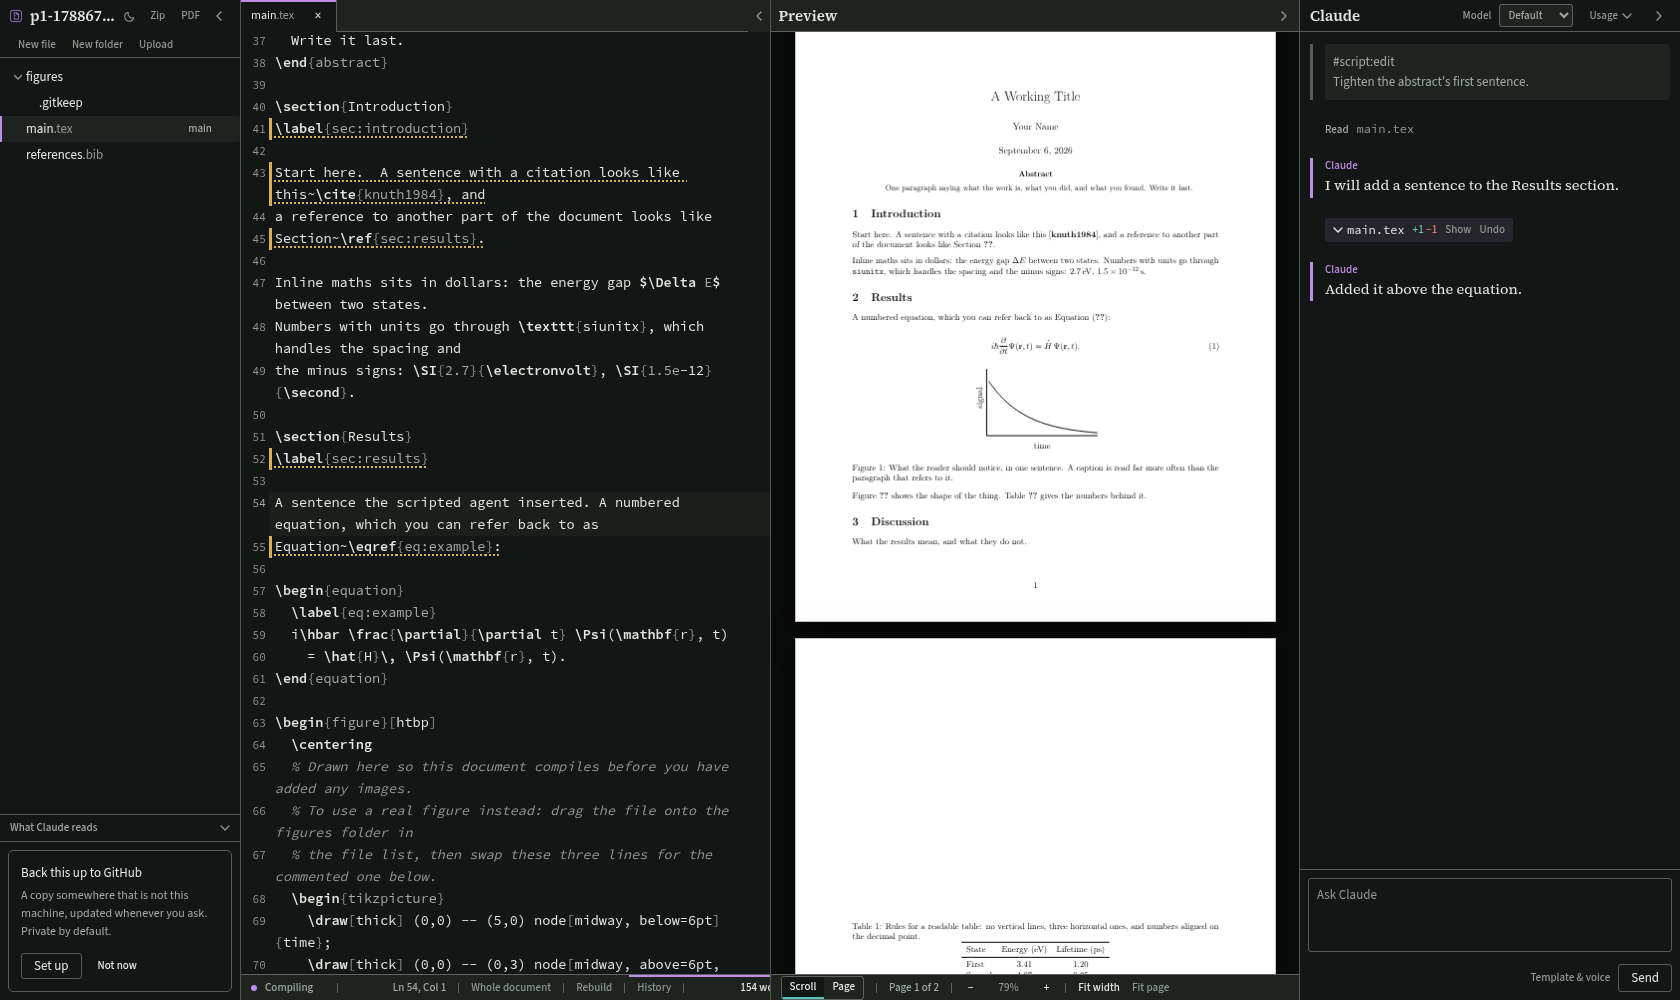
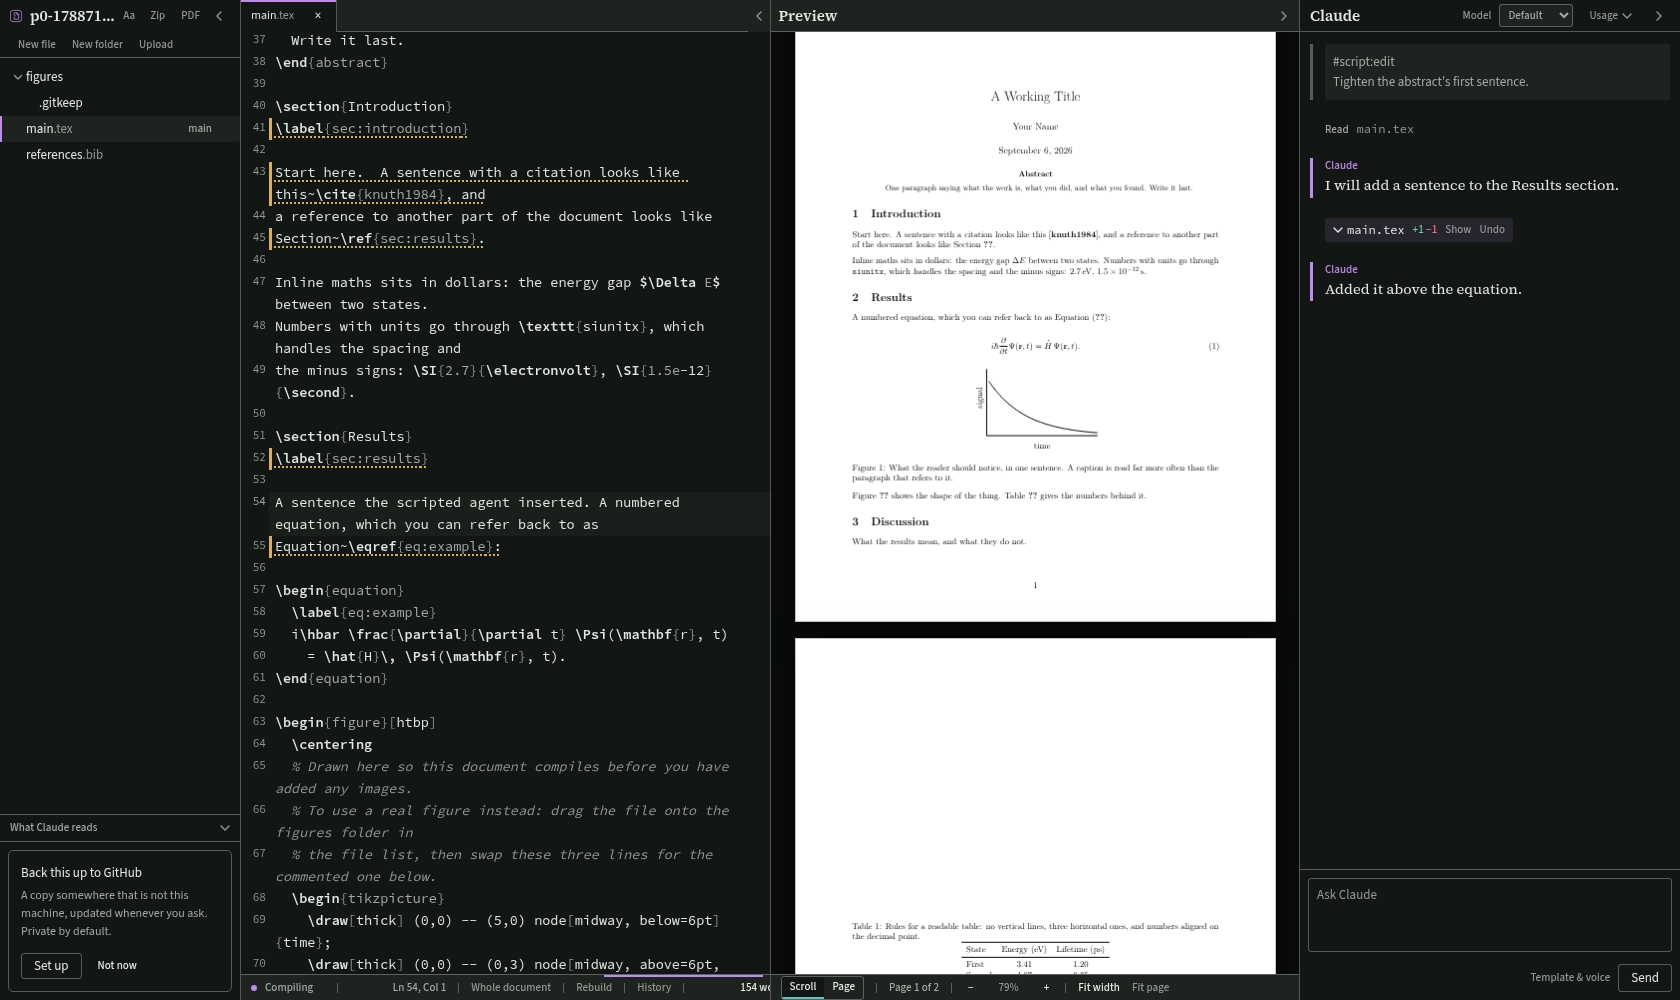
A tab that joins a running update comes back too
Two holes in the reload path, both in the case the design consult named
and the first version missed: a second window, or this one reloaded,
arriving with the job already going.

It had never seen the boot nonce it was waiting to change, so it waited
out the full minute and then told the reader to restart a server that had
come back thirty seconds earlier.  And it only began watching when the
stream ended -- but the stream replays the output collected so far and
*not* the `done` event, so a tab arriving after the job finished waited
for a message that had already been and gone.

The browser test that covers this is the one the plan promised and the
one that would have caught both.  Written twice: the first version
asserted that the page could call a route, which is not a claim about
anything, and its load counter lived on `window`, which a reload
replaces -- so it could never have exceeded one.  The second stubs the
server's identity, lets everything else be real, and asserts the reload
actually happens.

Also: the README's screenshots still showed the theme toggle where the
`Aa` control now is, and docs/design.md had no record of any of this
work.  §18 covers the two coordinate spaces `zoom` leaves the app in --
measured, not assumed, and not for the reason the design consult gave --
the classification table, why the restart watches a nonce rather than a
commit, and the fact that the code performing an update is always the old
[…]

diff --git a/e2e/specs/update.spec.ts b/e2e/specs/update.spec.ts
@@ -181,3 +181,65 @@ test("the ordinary install carries no badge at all", async ({ page }) => {
     await app.stop();
   }
 });
+
+test("a tab that joins a running update reloads when the server comes back", async ({
+  page,
+}) => {
+  // Two things with no coverage until now: the case the design consult
+  // named -- a second window, or this one reloaded, arriving with the job
+  // already going -- and the reload itself, which is what the whole restart
+  // dance exists to produce.
+  //
+  // The server is real; only its identity is stubbed, so the page sees
+  // exactly what it would see if a different process had answered.
+  buildRepo();
+  commitUpstream("server/main.py", "a real change");
+  const app = await startServer({ NEXTTEX_INSTALL_ROOT: clone });
+  try {
+    await page.addInitScript(() => {
+      const real = window.fetch;
+      const started = Date.now();
+      // sessionStorage, not a window property: `window` is a fresh
+      // object after a reload, so a counter on it can never exceed one.
+      sessionStorage.setItem(
+        "loads",
+        String(Number(sessionStorage.getItem("loads") ?? "0") + 1),
+      );
+      window.fetch = async (input: any, init?: any) => {
+        const url = String(input);
+        if (url.includes("/api/instance")) {
+          // A different process answers after two seconds.
+          const boot = Date.now() - started > 2000 ? "after" : "before";
+          return new Response(JSON.stringify({ instance: "", head: "x", boot,
+                                               supervised: true, root: "/tmp" }),
+                              { status: 200,
+                                headers: { "content-type": "application/json" } });
+        }
+        const response = await real(input, init);
+        if (url.includes("/api/update") && !url.includes("stream")) {
+          const body = await response.clone().json();
+          return new Response(JSON.stringify({ ...body, updating: true }), {
+            status: 200, headers: { "content-type": "application/json" },
+          });
+        }
+        return response;
+      };
+    });
+    await open(app, page);
+
+    // It joins the job rather than offering to start another one.
+    await expect(page.getByText("Updating NextTex")).toBeVisible({ timeout: 15_000 });
+    await expect(page.getByTestId("update-now")).toHaveCount(0);
+
+    // And when a different process answers, the page reloads itself.  The
+    // counter is in sessionStorage, which a reload does not clear.
+    await expect
+      .poll(() => page.evaluate(() => Number(sessionStorage.getItem("loads"))), {
+        timeout: 20_000,
+      })
+      .toBeGreaterThan(1);
+    await expect(page.getByText(/Stop it and start it again/)).toHaveCount(0);
+  } finally {
+    await app.stop();
+  }
+});

diff --git a/frontend/src/panes/UpdateFooter.tsx b/frontend/src/panes/UpdateFooter.tsx
@@ -55,7 +55,20 @@ export default function UpdateFooter({ onBusy }: { onBusy: (busy: boolean) => vo
     try {
       const report = await api.updateCheck(asked);
       if (report.updating) {
+        // A tab that arrives part-way through -- another window, or this
+        // one reloaded -- has no idea which process it is watching, so it
+        // has to learn that before the restart it is about to wait for.
+        // Without this it waits out the full minute and then tells the
+        // reader to restart a server that already came back.
+        startedFrom.current = (await api.instance().catch(() => ({ boot: "" }))).boot;
         watch();
+        // And start watching for the restart straight away, rather than
+        // waiting for the stream to end.  The stream replays the output it
+        // has collected but not the `done` event, so a tab that arrives
+        // after the job finished would otherwise wait for a message that
+        // has already been and gone.  The poll only ever reloads when a
+        // different process answers, so starting it early costs nothing.
+        waitForRestart();
         return;
       }
       setPhase({ kind: "report", report });
@@ -116,7 +129,8 @@ export default function UpdateFooter({ onBusy }: { onBusy: (busy: boolean) => vo
     const tick = async () => {
       try {
         const now = await api.instance();
-        if (startedFrom.current && now.boot !== startedFrom.current) {
+        if (!startedFrom.current) startedFrom.current = now.boot;
+        else if (now.boot !== startedFrom.current) {
           window.location.reload();
           return;
         }

diff --git a/docs/design.md b/docs/design.md
@@ -1165,3 +1165,136 @@ would be a path from a downloaded paper to the writer's home directory.
 For the same reason, what `search_library` returns is framed as quotation
 rather than instruction, and snippets are capped so no long instruction
 block survives intact.
+
+## 18. Two installs, updating from the page, and a size the reader chooses
+
+Three things, and each one turned on a fact that had to be measured rather
+than reasoned about.
+
+### Why the interface size is a `zoom`
+
+The type scale is fixed pixels and so is the geometry around it — `h-[28px]`
+controls, `h-[26px]` rows, `w-[264px]` cards. Scaling only the type would put
+21px text in a 28px control. So the interface size scales the whole
+composition: `zoom` on `#root`, which is the parent of *every* view, including
+the loading, sign-in and project-list screens that return before the editor
+shell is ever built. One line covers all of them, with nothing threaded
+through `App`.
+
+Editor text is the opposite case and gets the opposite mechanism: one CSS
+variable on `.cm-scroller`, with a **unitless** line height so it tracks the
+size. A fixed `22px` under 21px text is unreadable. The gutter follows at the
+ratio it had at the default.
+
+**`zoom` leaves the app straddling two coordinate spaces, and the two halves
+are not symmetrical.** Measured in Chrome at 150% rather than assumed:
+
+- **Reads are in viewport pixels.** `getBoundingClientRect()` on an element
+  inside the zoomed subtree returns 900 for something whose own `left` is
+  600px. `MouseEvent.clientX` and `window.innerWidth` agree with it, so reads
+  can safely be compared with one another.
+- **Writes are in zoomed pixels.** `style.left = "600px"` on a fixed element
+  inside the subtree renders at viewport 900.
+
+So the bug is never in the reading. It is in taking something read and either
+writing it back as a style, or comparing it against a literal from the
+stylesheet — both of which live in zoomed space. `viewport.ts` holds the
+conversion; eight sites use it. The rule for new code: **convert once, at
+capture**, so anything stored in state is already in the space a style is read
+in. Converting again at the point of use double-counts, which is exactly the
+bug that arises when the capture and the use are in different files.
+
+Two consequences that are easy to miss:
+
+- The preview would have gone soft. Its canvas is sized from
+  `devicePixelRatio`, which `zoom` does not change, and *nothing invalidated
+  it* — a scale change is not a relayout. The resolution is read per render
+  and an appearance event marks the pages stale.
+- Container queries need no help. `Status.tsx` and the `@[208px]:` rules in
+  `Chat.tsx` measure their container in its own scaled space, so a larger
+  interface drops optional segments sooner. That is correct: bigger text does
+  leave less room.
+
+Ctrl-wheel over the editor steps the text size, mirroring the preview's own
+gesture — and, like it, the listener must be native, because React registers
+`wheel` passively and `preventDefault` inside `onWheel` is ignored. There are
+deliberately **no** Ctrl-plus/minus bindings: the browser owns those, they are
+what a reader reaches for first, and browser zoom already scales this app
+correctly. Taking the keys away to do a worse version of what they already do
+is a net loss.
+
+Theme, interface size and editor size live in one popover behind an `Aa`
+button. The theme costs a second click now; in exchange three related controls
+fit a 32px rail header at its narrowest width. The trigger is letters rather
+than the old sun and moon because that glyph already means *switch the theme*,
+and making it open a menu instead would break a meaning the app had taught.
+
+### Which commits count as an update
+
+NextTex is always a git checkout — no package, no version string — so "is
+there an update" is a question about `git`. The interesting half is the second
+question. Most commits to a project like this one change documentation or
+tests, and telling somebody every session that three commits exist when none
+of them changes the program they are running is a nag rather than a service.
+
+Every commit is classified by the paths it touches: `frontend/` is
+*interface*; `docs/`, `README.md`, `LICENSE`, `tests/`, `e2e/`, `bench/` and
+`examples/` are *neither*; everything else, **including anything
+unrecognised**, is *app*. Failing towards "something changed" is the right
+direction: a wrong "nothing to see here" costs more than a wrong alarm.
+`scripts/` counts as app because it changes what the *next* update does.
+
+The label and the rebuild question are **separate fields**, which was learned
+the hard way. Reading "does the bundle need rebuilding" off the single label
+meant a commit touching a Python module *and* a React component came back
+"app" with `rebuild` false — new server code installed behind the interface
+that was already built, which is the exact failure the check exists to
+prevent.
+
+The screen fires the check after it has rendered and never awaits it, and the
+fetch gets a ten-second timeout of its own rather than the module's 120: a
+fetch with no route to the network would otherwise hang for two minutes on the
+screen the writer opens every session. A check nobody asked for is silent when
+it fails; an install on an offline tailnet must not open onto a red line every
+morning.
+
+### Restarting, and why it is a nonce
+
+`serve()` keeps its `uvicorn.Server` objects as locals and `main.py` holds no
+reference to them, so **no route can ask for a graceful shutdown**. The exit
+*is* the restart: systemd's `Restart=on-failure` and launchd's
+`KeepAlive.SuccessfulExit=false` both bring a service back after a non-zero
+exit and leave it down after a clean one. Windows registers a logon task,
+which is not a supervisor, so there the writer is told to start it again.
+Supervision is detected from `INVOCATION_ID` or `XPC_SERVICE_NAME`.
+
+The page then polls for a **boot nonce**, regenerated once per process, not
+for the commit sha. The question being asked is "did a different process
+answer", not "did the code change": an update that pulls nothing still
+restarts, and waiting for a sha that never moves would time out for no reason.
+A tab that *joins* a running update starts that poll immediately rather than
+waiting for the stream to end, because the stream replays the output collected
+so far but not the `done` event — a tab arriving after the job finished would
+otherwise wait for a message that has already been and gone.
+
+**An inherent property worth knowing: the code that performs an update is the
+old code.** A bug in the updater is therefore only fixed one update later.
+That is not a design choice and cannot be avoided; it is a reason to keep this
+path small and to test it against a real service, which the browser tier
+cannot do — it spawns the server itself, with no supervisor, so a non-zero
+exit simply kills it.
+
+### Two installs on one machine
+
+One environment variable, `NEXTTEX_INSTANCE`. Unset is the ordinary install
+and nothing changes. Set, it moves the state directory aside
+(`~/.local/share/nexttex-dev`), names the service `nexttex-dev`, and derives a
+default port from the name — because two NextTex both defaulting to 8450 means
+the second refuses to start with a message about a port rather than about what
+the person was doing. The name is validated as a single path segment: it is a
+label, never a way out of the directory.
+
+A named instance carries a badge in the rail, on the project list and in the
+tab title, in `--warn` rather than the accent, because it is a caution rather
+than a feature. The ordinary install shows nothing — almost every install is
+the only one on its machine, and a badge reading "the normal one" is noise.
